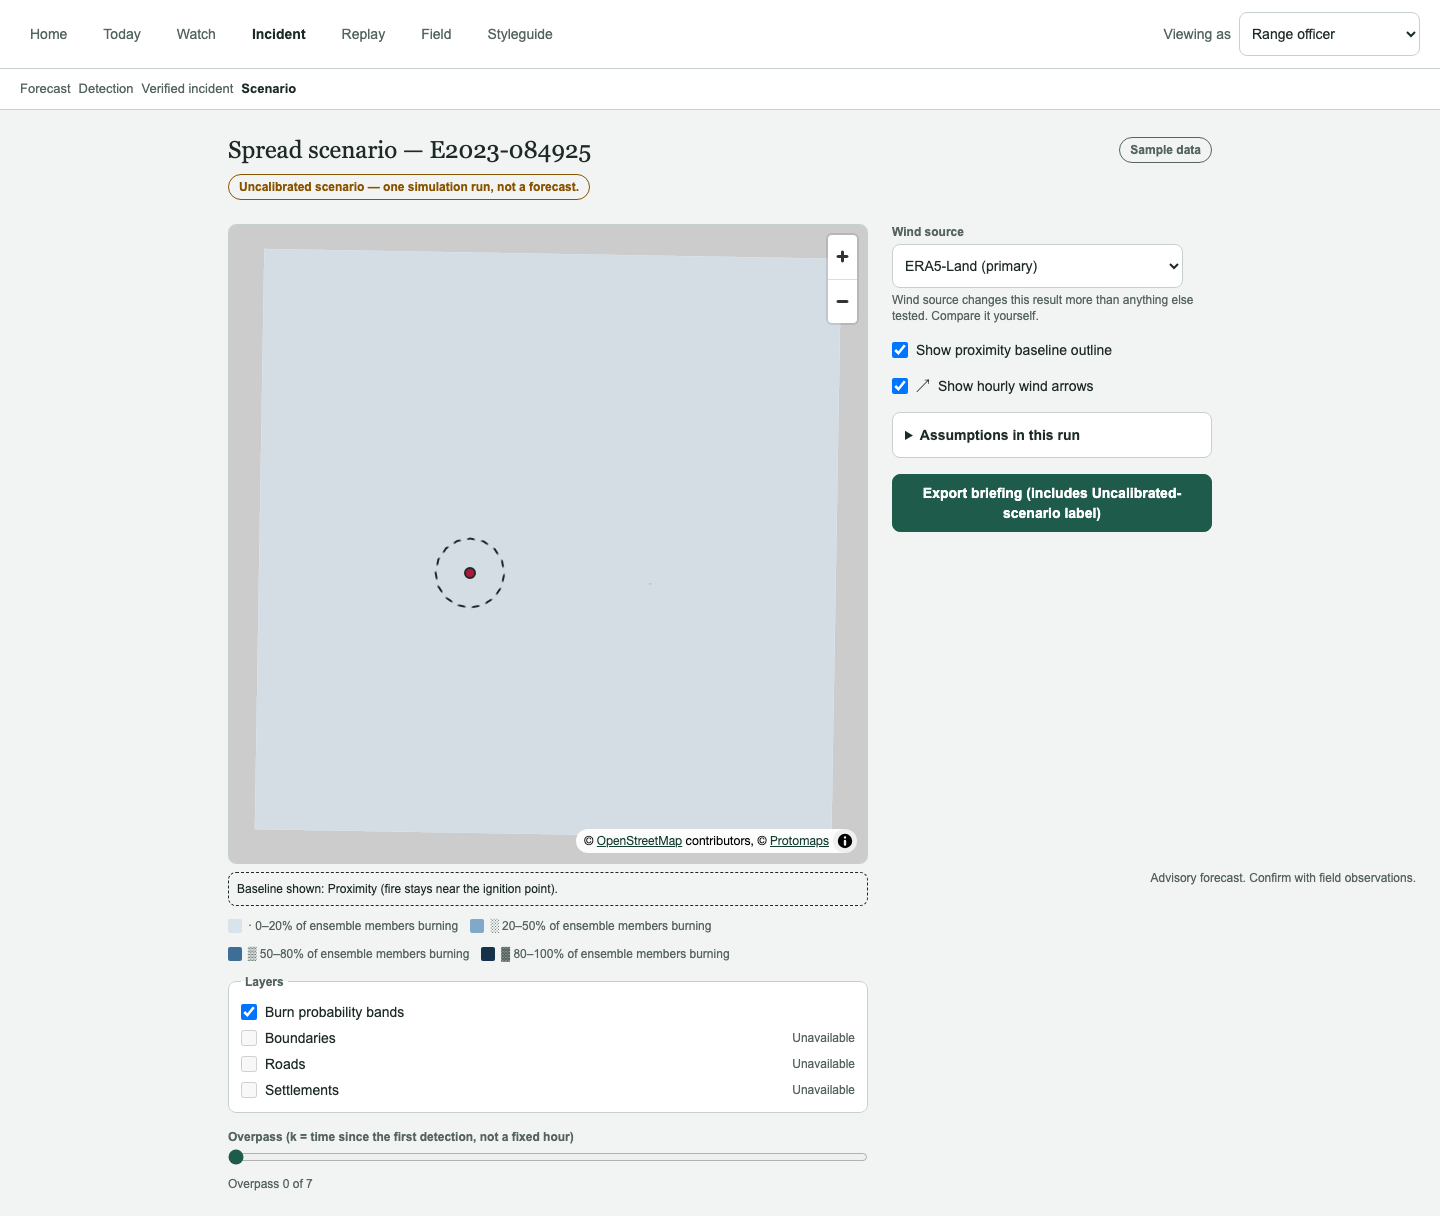
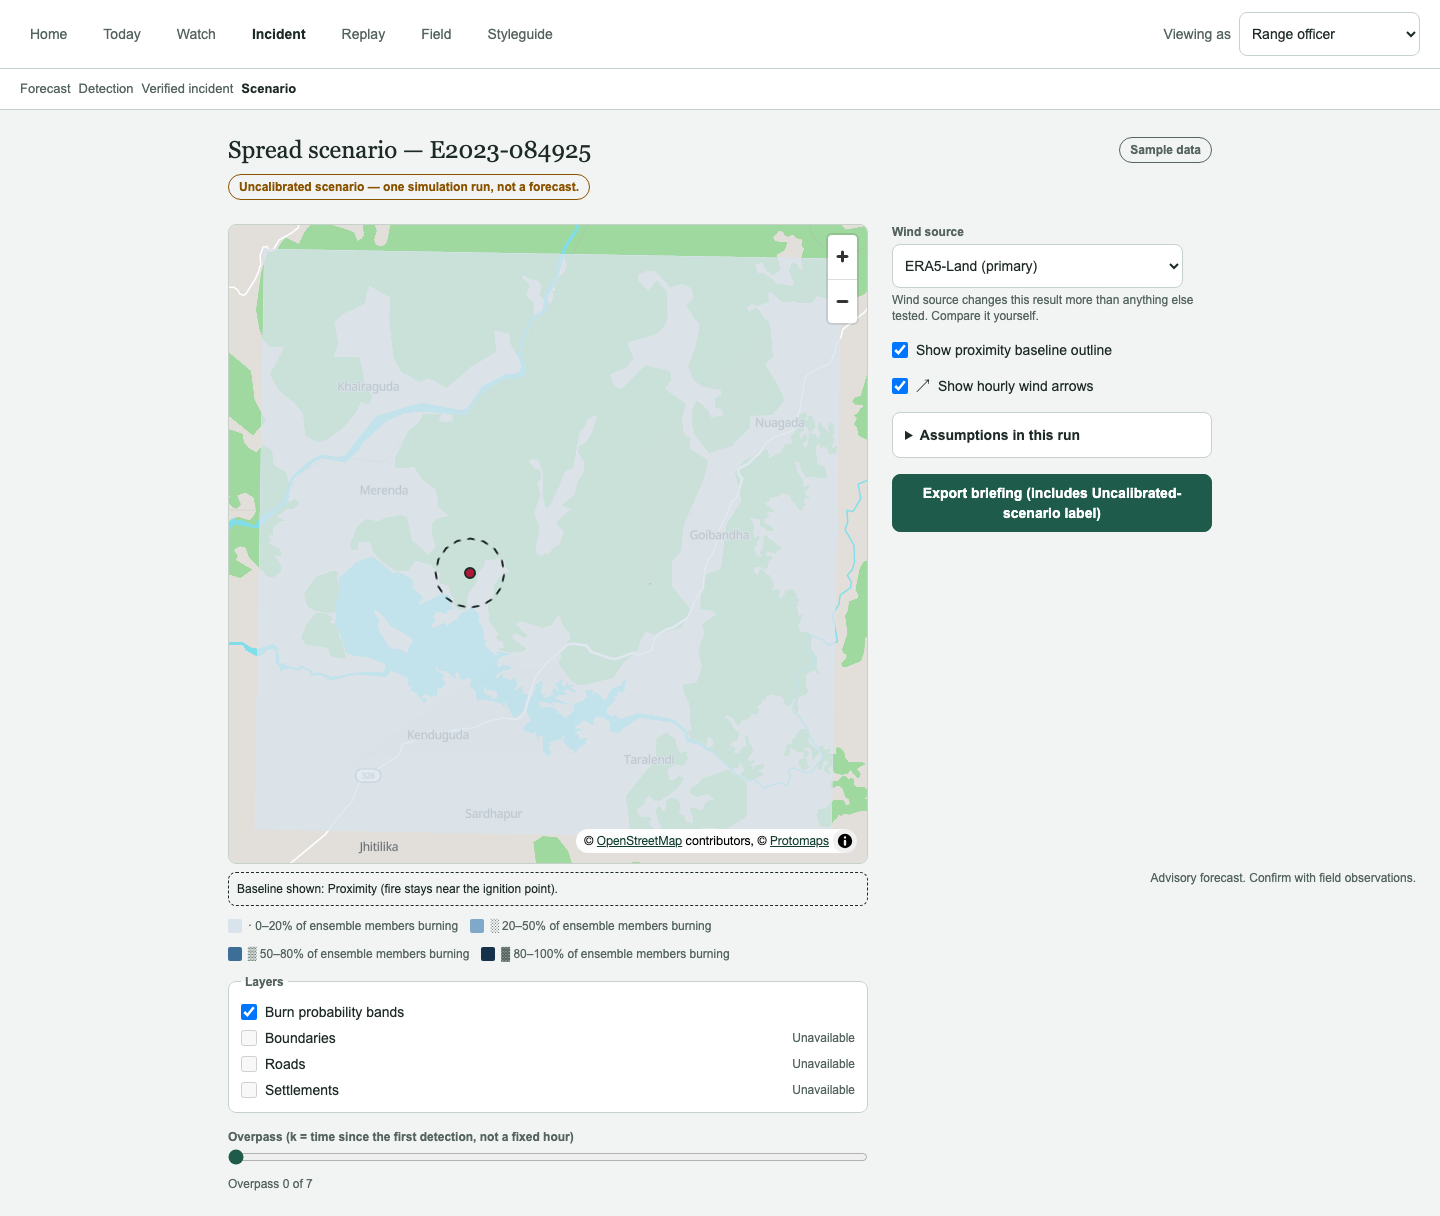
RESQ redesign Phase 2: fix screenshot race that hid real basemap tiles
Coordinator review of the regenerated screenshots caught a real problem: on
Today/Watch/Incident/Replay (4 of 5 map screens), the screenshots showed a
flat gray rectangle under the vector overlays — canvas and "OpenStreetMap/
Protomaps" attribution both present (so a real MapLibre instance, not the
old placeholder), but no basemap tiles actually painted. Field looked
correct (real terrain, place labels, coastline) despite using the same
center/zoom as Today/Watch, which ruled out an initialization or
zoom-outside-archive-extent bug and pointed at a screenshot-timing race
instead: `page.screenshot()` fired right after `[data-rq-app]` appeared,
before the pmtiles basemap's async range-request fetches had resolved and
painted — a race that different screens happened to win or lose depending
on incidental timing, not anything structurally different between them.

Fix: MapShell now tracks MapLibre's `idle` event (fires only once every
source — including the pmtiles basemap — has actually loaded and rendered,
not just once the style/canvas exists) and exposes it as
`data-map-idle="true"` on its wrapper (`data-testid="map-shell"`).
frontend/tests/redesign.spec.ts's screenshot tests and the real-map-canvas
test now wait on that attribute for every MapShell on the page (styleguide
has two) before capturing or asserting, instead of racing the async tile
load.

Verified, not just asserted: regenerated every affected screenshot and
[…]

diff --git a/frontend/tests/redesign.spec.ts b/frontend/tests/redesign.spec.ts
@@ -36,6 +36,10 @@ for (const screen of SCREENS) {
         await expect(page.locator('.maplibregl-canvas').first()).toBeVisible({ timeout: 10_000 });
         // The attribution control proves it's the real OSM-derived PMTiles basemap, not a placeholder.
         await expect(page.locator('.maplibregl-ctrl-attrib')).toContainText(/OpenStreetMap/i);
+        // 'idle' (exposed as data-map-idle) only flips true once MapLibre has actually painted
+        // the pmtiles basemap's tiles, not just created the canvas — proves real tiles rendered,
+        // not merely that a MapLibre instance exists over a blank/unloaded source.
+        await expect(page.locator('[data-map-idle="true"]').first()).toBeVisible({ timeout: 15_000 });
       });
     }
 
@@ -44,6 +48,16 @@ for (const screen of SCREENS) {
         await page.setViewportSize({ width, height: 900 });
         await page.goto(screen.path);
         await page.waitForSelector('[data-rq-app]');
+        if (screen.hasMap) {
+          // Wait for every MapShell on the page (styleguide-style pages can have more than one)
+          // to finish loading real basemap tiles before capturing, so the screenshot isn't a
+          // race against pmtiles' async range-request fetches.
+          const maps = page.getByTestId('map-shell');
+          const count = await maps.count();
+          for (let i = 0; i < count; i++) {
+            await expect(maps.nth(i)).toHaveAttribute('data-map-idle', 'true', { timeout: 15_000 });
+          }
+        }
         await page.screenshot({ path: `../docs/redesign/screenshots/phase2/${screen.name}_${width}.png`, fullPage: true });
       });
     }
@@ -115,6 +129,11 @@ test('incident: Uncalibrated-scenario badge is always present, not dismissible',
 test('styleguide: renders and is axe-clean', async ({ page }) => {
   await page.goto('/redesign/styleguide');
   await page.waitForSelector('[data-rq-app]');
+  const maps = page.getByTestId('map-shell');
+  const count = await maps.count();
+  for (let i = 0; i < count; i++) {
+    await expect(maps.nth(i)).toHaveAttribute('data-map-idle', 'true', { timeout: 15_000 });
+  }
   await page.screenshot({ path: '../docs/redesign/screenshots/phase2/styleguide_1440.png', fullPage: true });
   const results = await new AxeBuilder({ page }).include('[data-rq-app]').analyze();
   expect(results.violations, JSON.stringify(results.violations, null, 2)).toEqual([]);

diff --git a/frontend/src/redesign/components/map.tsx b/frontend/src/redesign/components/map.tsx
@@ -1,4 +1,4 @@
-import { useMemo, type ReactNode } from 'react';
+import { useMemo, useState, type ReactNode } from 'react';
 import Map, { Source, Layer, Marker, NavigationControl, AttributionControl } from 'react-map-gl/maplibre';
 import type { StyleSpecification, DataDrivenPropertyValueSpecification } from '@maplibre/maplibre-gl-style-spec';
 import maplibregl from 'maplibre-gl';
@@ -63,6 +63,7 @@ const INDIA_CENTER: [number, number] = [80.4, 20.3];
  *  (Source/Layer/Marker). */
 export function MapShell({ label, children, center, zoom, bounds, aspect = 'square' }: MapShellProps) {
   const style = useBasemapStyle();
+  const [idle, setIdle] = useState(false);
   const initialViewState = bounds
     ? { bounds, fitBoundsOptions: { padding: 24 } }
     : { longitude: (center ?? INDIA_CENTER)[0], latitude: (center ?? INDIA_CENTER)[1], zoom: zoom ?? (center ? 10 : 4.6) };
@@ -71,6 +72,12 @@ export function MapShell({ label, children, center, zoom, bounds, aspect = 'squa
     <div
       role="group"
       aria-label={label}
+      data-testid="map-shell"
+      // 'idle' fires once MapLibre has finished loading and rendering every source (including
+      // the pmtiles basemap's range-request fetches) — tests wait on this instead of racing the
+      // screenshot against async tile loading, which otherwise captures a blank basemap under
+      // the real vector overlays (canvas + attribution present, no tiles painted yet).
+      data-map-idle={idle}
       className={`relative w-full overflow-hidden rounded-rq border border-contour bg-paper ${aspect === 'square' ? 'aspect-square' : 'aspect-[16/9]'}`}
     >
       <Map
@@ -81,6 +88,7 @@ export function MapShell({ label, children, center, zoom, bounds, aspect = 'squa
         attributionControl={false}
         locale={{ 'Map.Title': label }}
         aria-label={label}
+        onIdle={() => setIdle(true)}
       >
         <AttributionControl compact position="bottom-right" />
         <NavigationControl position="top-right" showCompass={false} />
